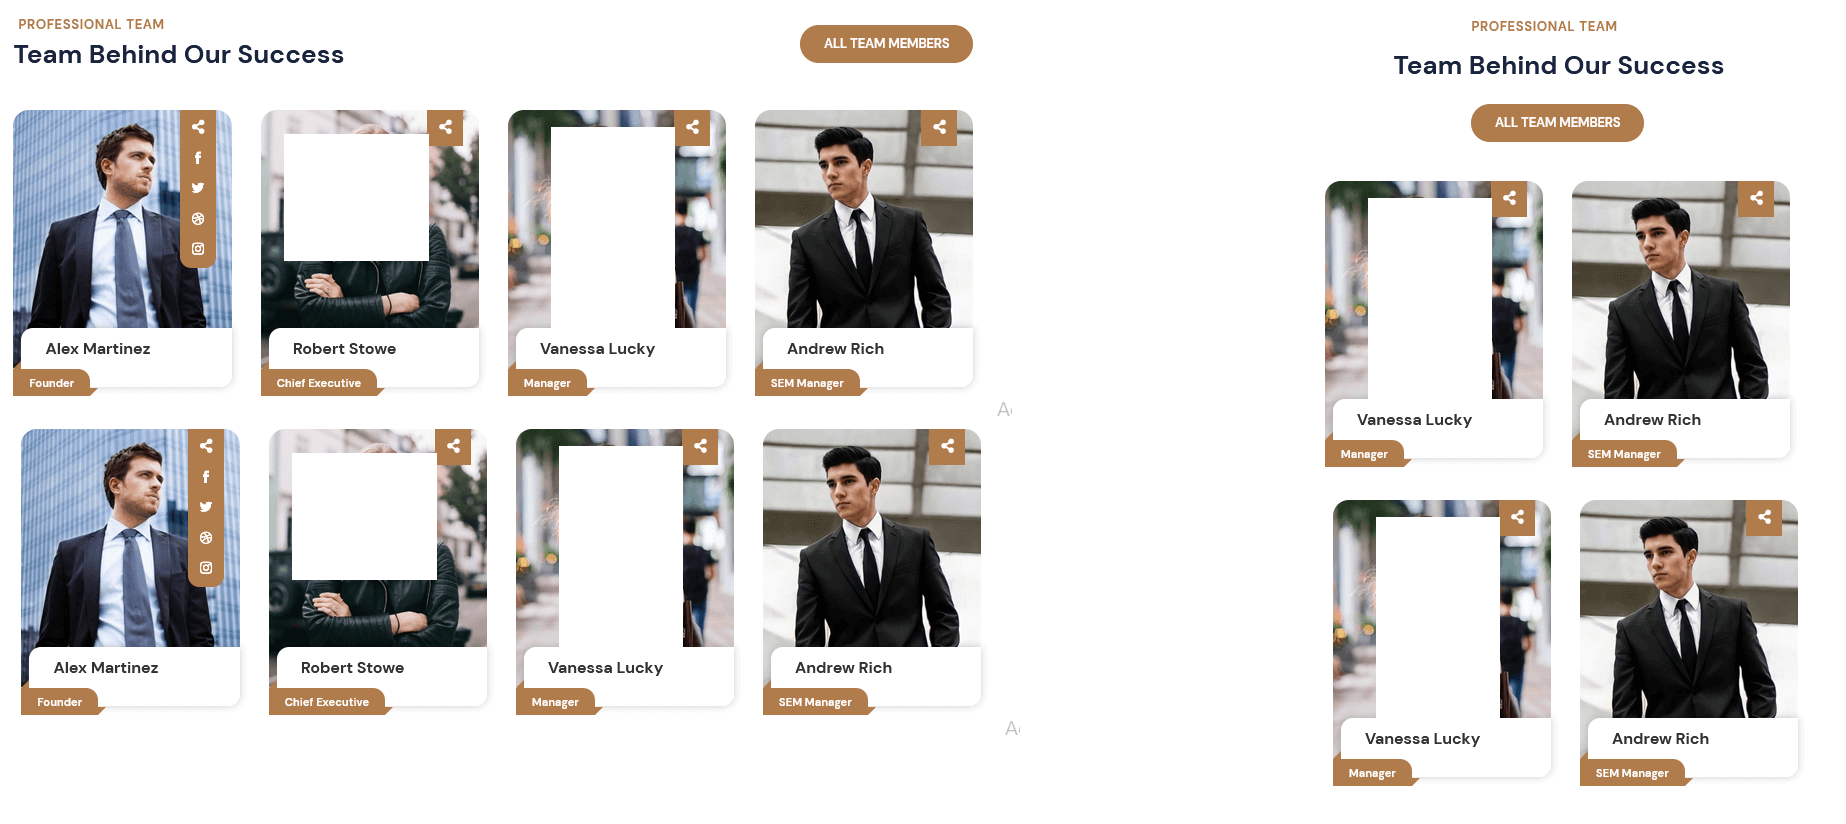
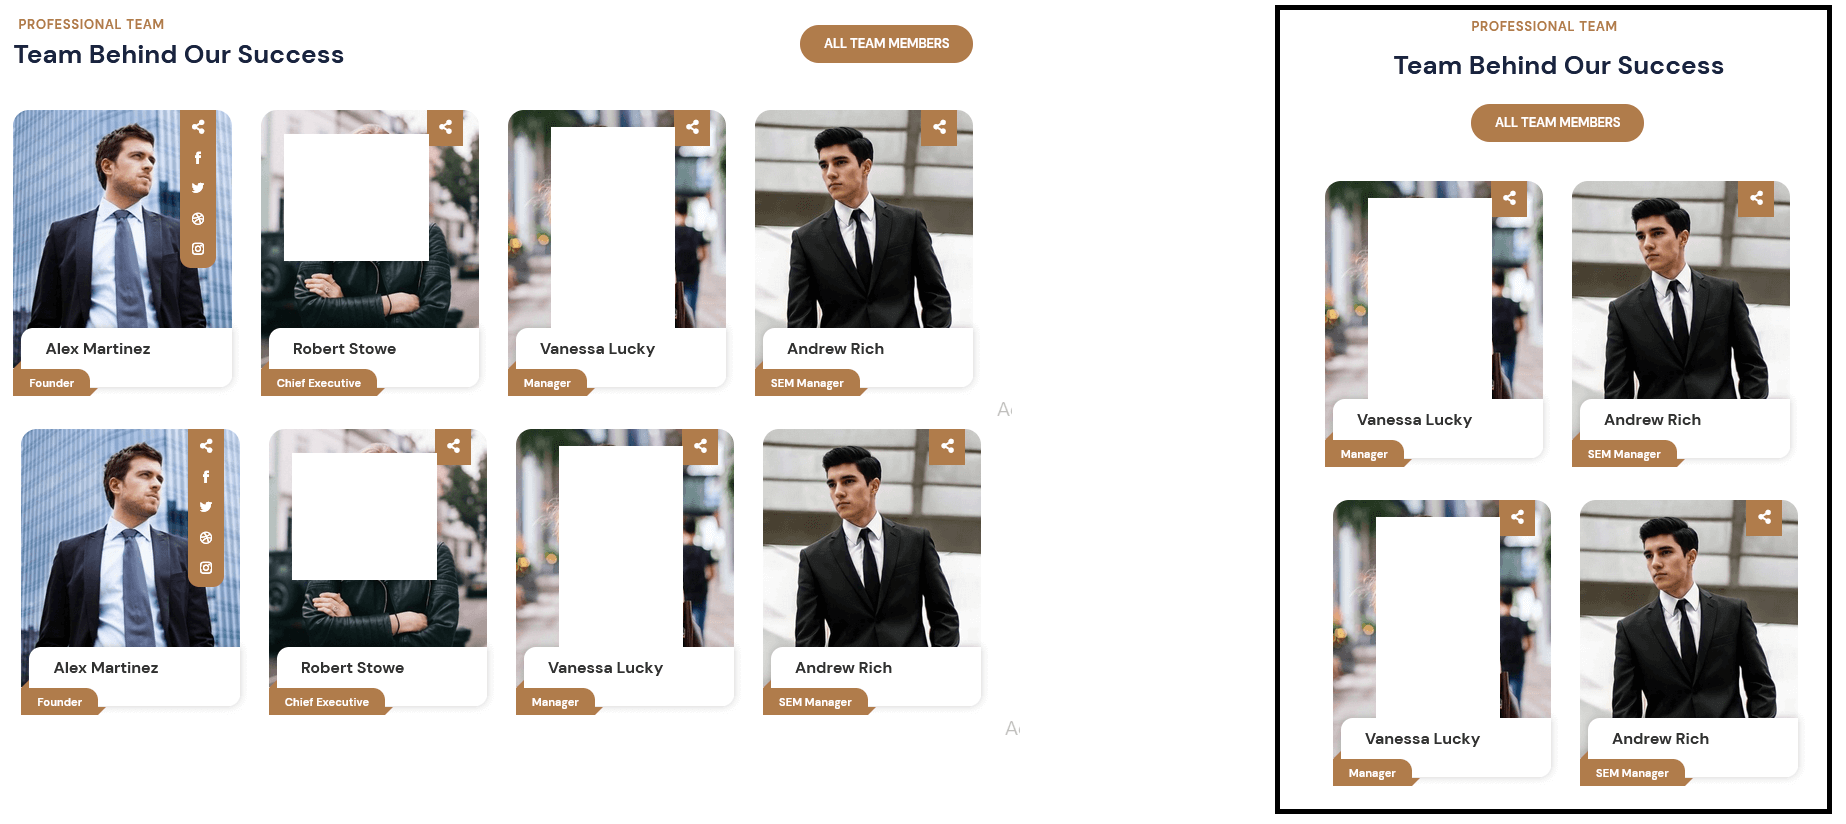
css dipisah

Changed region(s): [[0.6793, 0.0, 1.0, 1.0]]

diff --git a/kuliahxsmpsma/tugas8/team-section.html b/kuliahxsmpsma/tugas8/team-section.html
@@ -7,161 +7,8 @@
     <meta name="viewport" content="width=device-width, initial-scale=1.0">
     <title>Document</title>
     <link rel="stylesheet" href="https://cdnjs.cloudflare.com/ajax/libs/font-awesome/7.0.0/css/all.min.css">
-    <style>
-        @import url('https://fonts.googleapis.com/css2?family=Caveat:wght@400..700&family=Cormorant+Infant:ital,wght@0,300..700;1,300..700&family=DM+Serif+Display:ital@0;1&family=EB+Garamond:ital,wght@0,400..800;1,400..800&family=Josefin+Sans:ital,wght@0,100..700;1,100..700&family=League+Spartan:wght@100..900&family=Montserrat:ital,wght@0,100..900;1,100..900&family=Quicksand:wght@300..700&family=Righteous&family=Special+Gothic+Expanded+One&display=swap');
-        *{
-            margin: 0;
-            padding: 0;
-            box-sizing: border-box;
-            /* font-family: "League Spartan", sans-serif; */
-            font-family: Helvetica; 
-            /* font-weight: 900;  */
-        }
-        a{
-            color: #000;
-            text-decoration: none;
-        }
-        .flex{
-            display: flex;
-        }
-        .block{
-            display: block;
-        }
-        .aic{
-            align-items: center;
-        }
-        .jcc{
-            justify-content: center;
-        }
-        .jcsb{
-            justify-content: space-between;
-        }
-        .posab{
-            position: absolute;
-        }
-        .posre{
-            position: relative;
-        }
-        .fdc{
-            flex-direction: column;
-        }
-        .tal{
-            text-align: left;
-        }
-        .tac{
-            text-align: center;
-        }
-        .h-100vh{
-            height: 100vh;
-        }
-        .h-full{
-            height: 100%;
-        }
-        .w-full{
-            width: 100%;
-        }
-        .bgsilver{
-            background-color: rgb(199, 216, 216);
-        }
-        .bgputih{
-            background-color: white;
-        }
-        .bghitam{
-            background-color: black;
-        }
-        .bgtomat{
-            background-color: tomato;
-        }
-        .bgijo{
-            background-color: greenyellow;
-        }
-        .bgkuning{
-            background-color: yellow;
-        }
-        .bgbiru{
-            background-color: blue;
-        }
-        .bgmerah{
-            background-color: red;
-        }
-        .teksputih{
-            color: rgb(238, 234, 234);
-        }
-        .tekssilver{
-            color: rgb(199, 216, 216);
-        }
-        .service-title{
-          padding-inline: 20px;
-          padding-block: 20px;
-          display: flex;
-          flex-direction: column;
-          align-items: center;
-          text-align: center;
-          gap: 20px;
-        }
-        .team-section button{
-          padding: 10px 20px;
-          border-radius: 50vh;   
-          background-color: #B77D4E;
-          border: none;
-          color: white;
-          cursor: pointer;;
-        }
-        .service-text p{
-          color: #B77D4E;
-        }
-        .service-text h2{
-          color: rgb(48, 48, 102);
-        }
-        .team-section{
-          display: flex;
-          flex-direction: column;
-          justify-content: center;
-          align-items: center;
-          gap: 24px;
-          padding-inline: 20px;
-          padding-block: 20px;
-          background-color: tomato;
-        }
-        .service-content{
-          width: 98%; 
-          display: grid;
-          grid-template-columns: repeat(2, 1fr);
-          grid-template-rows: repeat(2, 1fr);
-          gap: 30px; 
-        }
-        .team-card{
-          width: 100%;
-          height: 100px; 
-        }
-
-
-
-
-
-
-
-
-
-        @media (min-width: 1024px){
-          .service-title{
-            display: flex;
-            justify-content: space-between;
-            align-items: center;
-            padding-inline: 20px;
-            padding-block: 20px;
-          }
-          .team-section{
-            display: flex;
-            flex-direction: column;
-            justify-content: center;
-            align-items: center;
-            padding-inline: 20px;
-            padding-block: 20px;
-          }
-        }
-    </style>    
-</head>
+    <link rel="stylesheet" href="style.css">
+  </head>
 <body class="">    
     <section class="team-section h-100vh w-full">
       <article class="service-title bgbiru">
@@ -186,6 +33,14 @@
         </div>
       </article>
     </section>
+
+
+
+
+
+
+
+    
     <section class="h-100vh w-full bgtomat">
     </section>
   </body>

diff --git a/kuliahxsmpsma/tugas8/style.css b/kuliahxsmpsma/tugas8/style.css
@@ -1,0 +1,155 @@
+@import url('https://fonts.googleapis.com/css2?family=Caveat:wght@400..700&family=Cormorant+Infant:ital,wght@0,300..700;1,300..700&family=DM+Serif+Display:ital@0;1&family=EB+Garamond:ital,wght@0,400..800;1,400..800&family=Josefin+Sans:ital,wght@0,100..700;1,100..700&family=League+Spartan:wght@100..900&family=Montserrat:ital,wght@0,100..900;1,100..900&family=Quicksand:wght@300..700&family=Righteous&family=Special+Gothic+Expanded+One&display=swap');
+*{
+    margin: 0;
+    padding: 0;
+    box-sizing: border-box;
+    /* font-family: "League Spartan", sans-serif; */
+    font-family: Helvetica; 
+    /* font-weight: 900;  */
+}
+a{
+    color: #000;
+    text-decoration: none;
+}
+.flex{
+    display: flex;
+}
+.block{
+    display: block;
+}
+.aic{
+    align-items: center;
+}
+.jcc{
+    justify-content: center;
+}
+.jcsb{
+    justify-content: space-between;
+}
+.posab{
+    position: absolute;
+}
+.posre{
+    position: relative;
+}
+.fdc{
+    flex-direction: column;
+}
+.tal{
+    text-align: left;
+}
+.tac{
+    text-align: center;
+}
+.h-100vh{
+    height: 100vh;
+}
+.h-full{
+    height: 100%;
+}
+.w-full{
+    width: 100%;
+}
+.bgsilver{
+    background-color: rgb(199, 216, 216);
+}
+.bgputih{
+    background-color: white;
+}
+.bghitam{
+    background-color: black;
+}
+.bgtomat{
+    background-color: tomato;
+}
+.bgijo{
+    background-color: greenyellow;
+}
+.bgkuning{
+    background-color: yellow;
+}
+.bgbiru{
+    background-color: blue;
+}
+.bgmerah{
+    background-color: red;
+}
+.teksputih{
+    color: rgb(238, 234, 234);
+}
+.tekssilver{
+    color: rgb(199, 216, 216);
+}
+.team-section{
+  display: flex;
+  flex-direction: column;
+  justify-content: center;
+  align-items: center;
+  gap: 24px;
+  padding-inline: 20px;
+  padding-block: 20px;
+  background-color: tomato;
+}
+.service-content{
+  width: 100%; 
+  display: grid;
+  grid-template-columns: repeat(2, 1fr);
+  grid-template-rows: repeat(2, 1fr);
+  gap: 30px; 
+}
+.team-card{
+  width: 100%;
+  height: 100px; 
+}
+.service-title{
+  width: 100%;
+  padding-inline: 20px;
+  padding-block: 20px;
+  display: flex;
+  flex-direction: column;
+  align-items: center;
+  text-align: center;
+  gap: 20px;
+}
+.team-section button{
+  padding: 10px 20px;
+  border-radius: 50vh;   
+  background-color: #B77D4E;
+  border: none;
+  color: white;
+  cursor: pointer;;
+}
+.service-text p{
+  color: #B77D4E;
+}
+.service-text h2{
+  color: rgb(48, 48, 102);
+}
+
+
+
+
+
+
+
+
+
+
+
+@media (min-width: 1024px){
+  .service-title{
+    display: flex;
+    justify-content: space-between;
+    align-items: center;
+    padding-inline: 20px;
+    padding-block: 20px;
+  }
+  .team-section{
+    display: flex;
+    flex-direction: column;
+    justify-content: center;
+    align-items: center;
+    padding-inline: 20px;
+    padding-block: 20px;
+  }
+}
